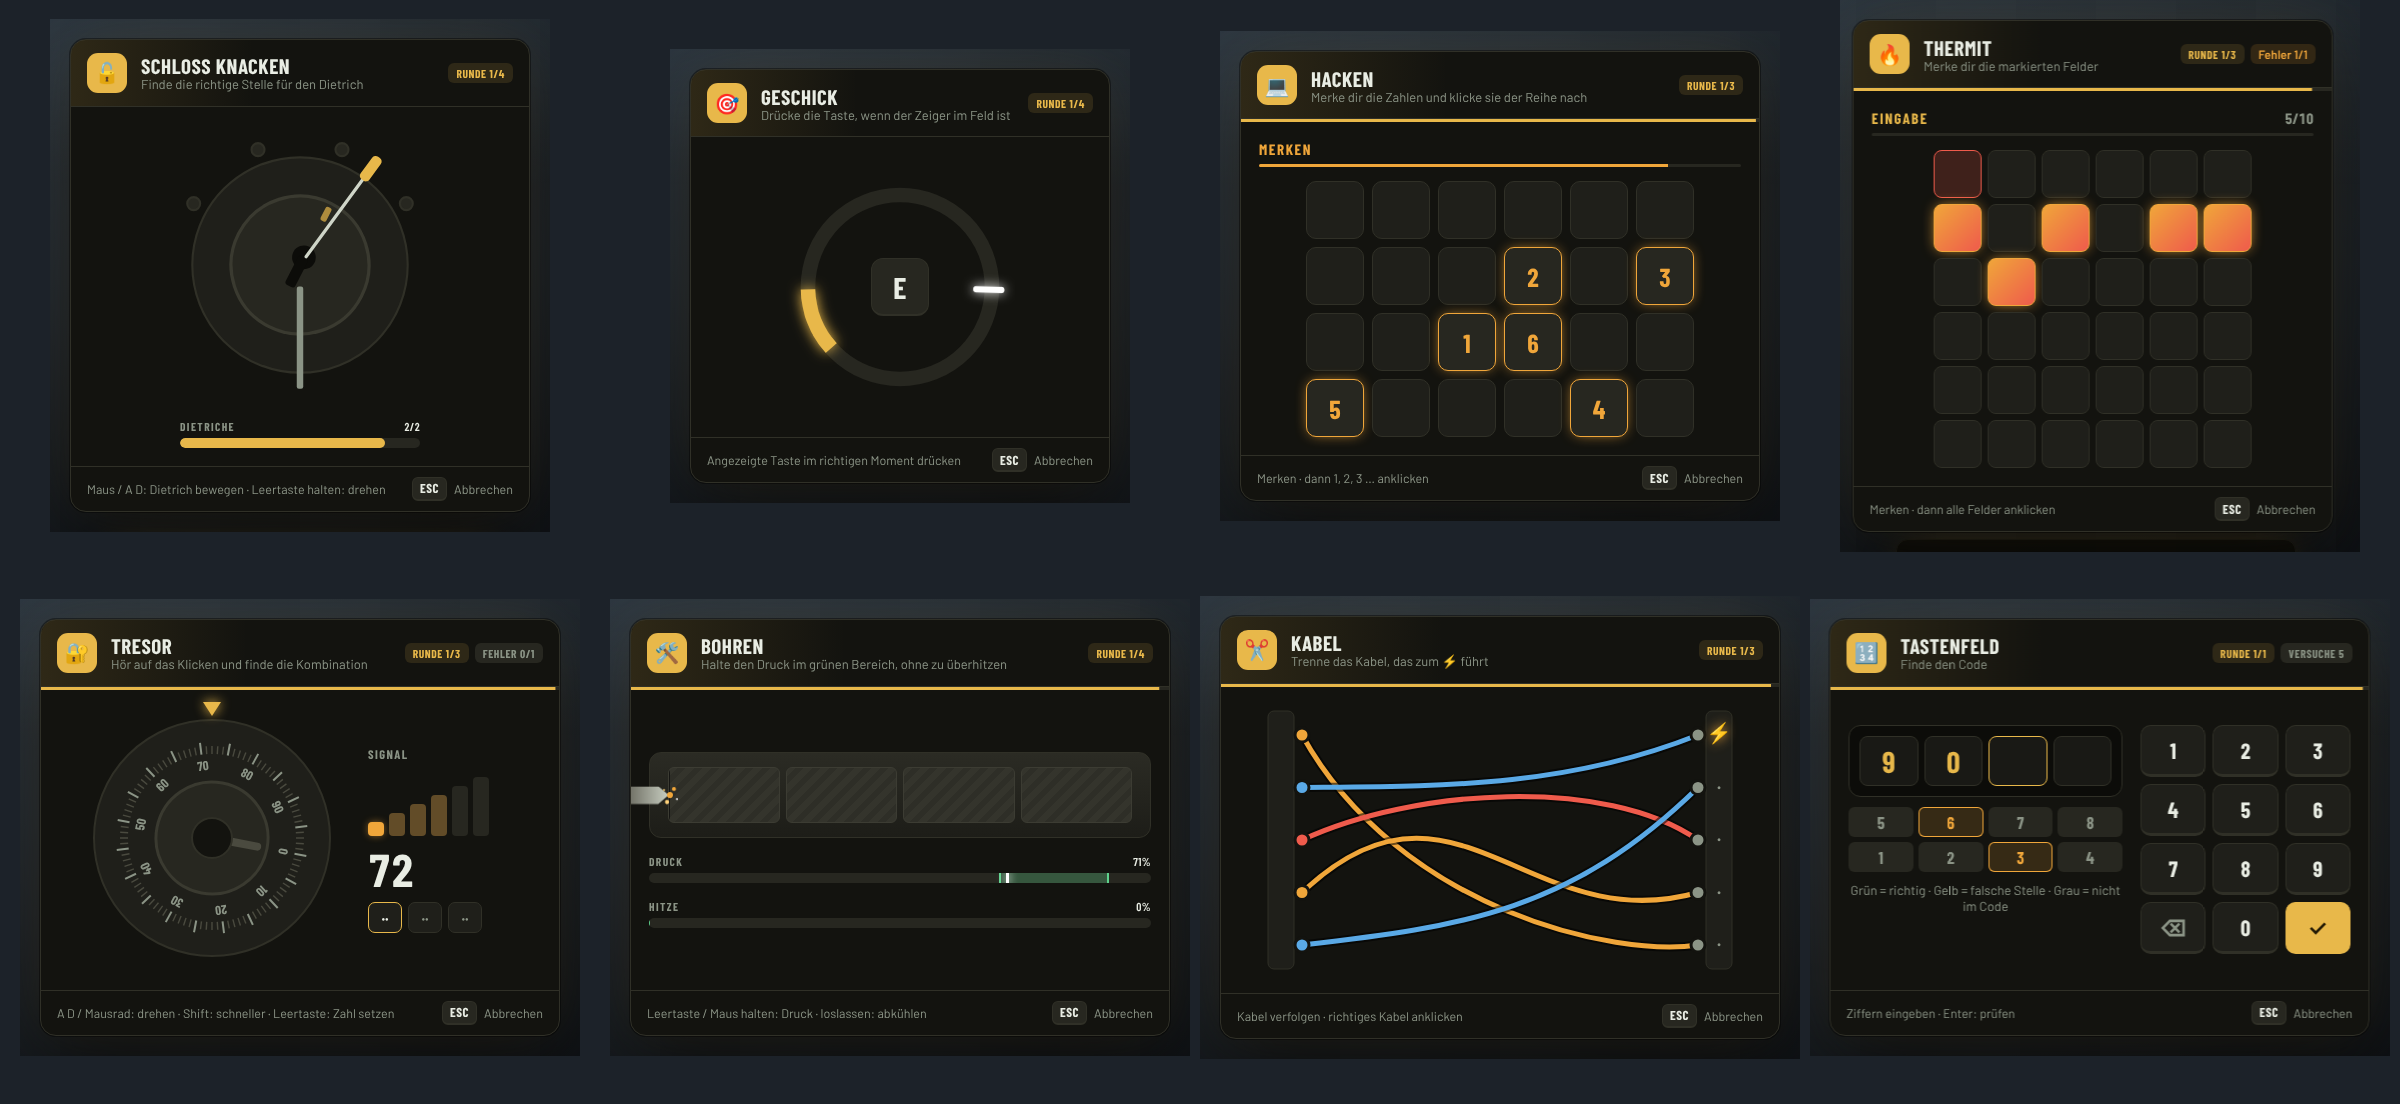
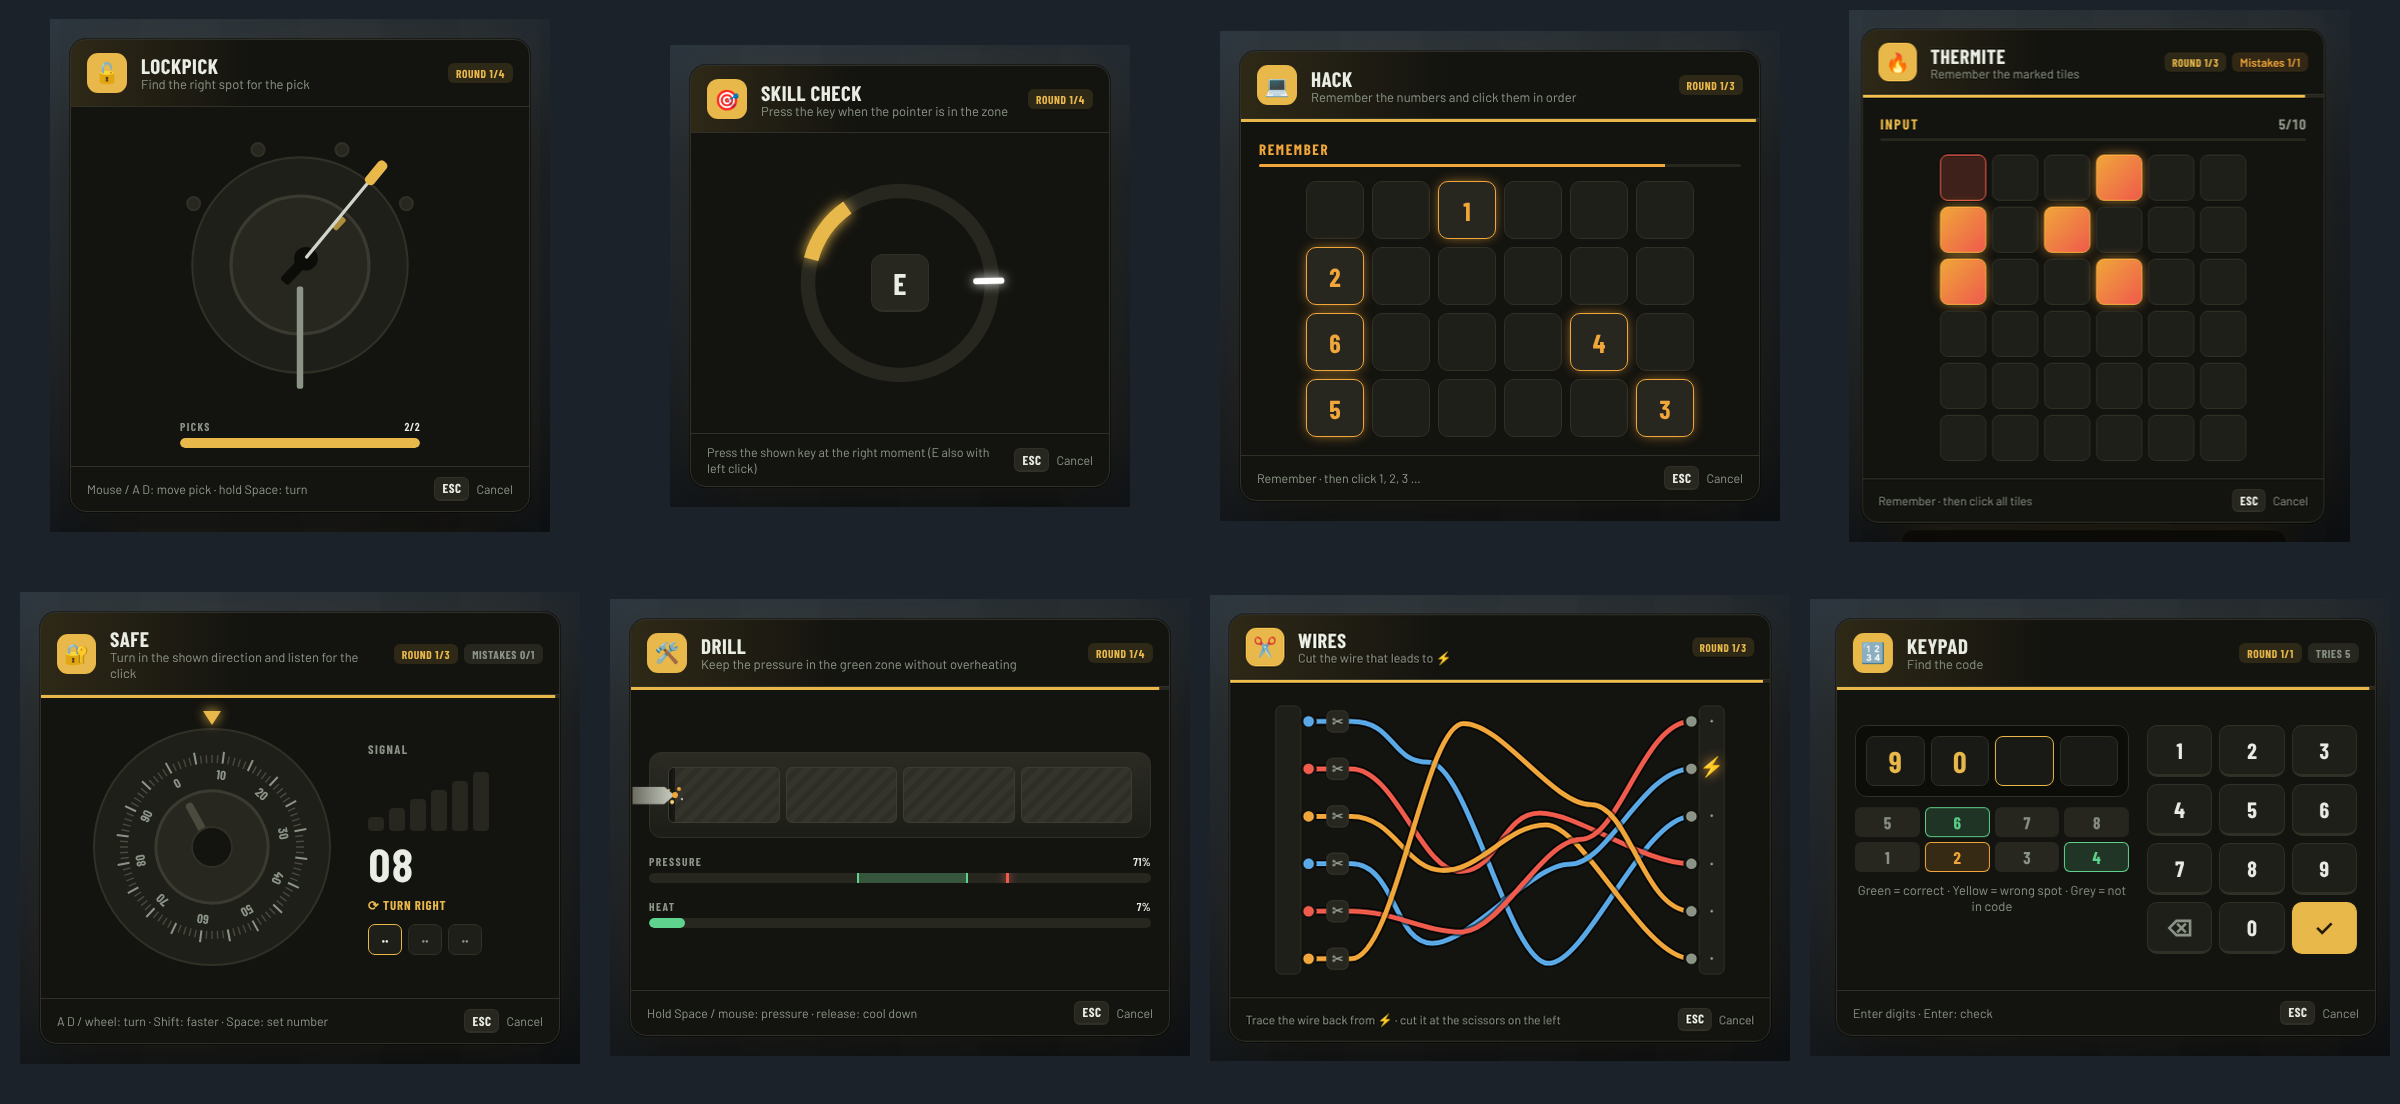
Add files via upload

diff --git a/lafl_lib/README.de.md b/lafl_lib/README.de.md
@@ -5,9 +5,9 @@ Eine Bridge für ESX / QBCore / Qbox / Standalone, modernes Notify, Fortschritts
 
 **🇬🇧 [English guide → README.md](README.md)**
 
-![Notify, Fortschrittsbalken und Text-UI](docs/notify-progress-textui.png)
+![Notify, Fortschrittsbalken und Text-UI](docs/notify-progress-textui-de.png)
 
-![Minispiele](docs/minigames.png)
+![Minispiele](docs/minigames-de.png)
 
 ## Funktionen
 
